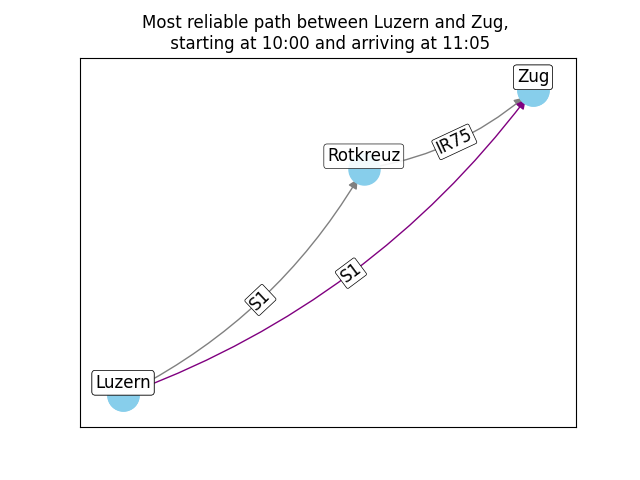
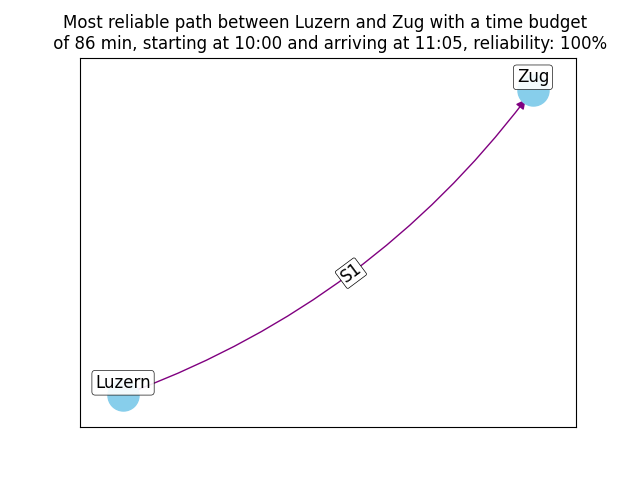
add results

diff --git a/algorithm/old/main_pavlina.py b/algorithm/old/main_pavlina.py
@@ -1,0 +1,109 @@
+# This file contains code to run the simple Dijsktra pathfinder
+import logging
+
+from algorithm.graph import Graph
+from retrieve_data.Network import get_data  # Import function to get data from database
+from retrieve_data.Network import process_route_data  # Import function to generate graph dynamically
+from algorithm.reliability_v2 import compute_reliability
+
+
+
+def print_path(path, start_node, start_time=0):
+    """
+    Print the path in a human-readable way
+    :param path: tuple with the path (departure_time, node, arrival_time, identifier)
+    """
+    # The first edge is the source node
+    if path is None:
+        print("No path found")
+        return
+    print(f"Start at {start_node} at {start_time}")
+    for trip in path:
+        departure_time = trip["planned_departure"]
+        arrival_time = trip["planned_arrival"]
+        node = trip["to"]
+        identifier = trip["trip_id"]
+        print(f"Take {identifier} to {node} at {departure_time} and arrive at {arrival_time}")
+
+
+
+# Data structure (tuples sorted by departure time for faster access)
+# We have a dictionary with the nodes as keys and the values are an array with tuples (departure_time, neighbor, arrival_time, trip identifier)
+# times in minutes
+
+def generate_graph(start_time, end_time, start_stop, data=None):
+    if data is None:
+        data = get_data()  # Fetch data only if not provided
+    return process_route_data(data, start_time, end_time, start_stop)
+
+# this is intermediate data to test the algorithm
+'''
+graph_data = {
+    # departure node with list of trips (departure nodes in the dictionary to be able to access the data easily)
+    # "from" is just additional to be accessible anywhere
+    # actual_times is a list of tuples with the actual departure and arrival times
+    'Liestal': [
+        { "from": 'Liestal', "to": 'Olten', "planned_departure": 487, "planned_arrival": 505, "trip_id": 'IC6', "actual_times": [(487, 505), (490, 508) ] }
+    ],
+    'Olten': [
+        { "from": 'Olten', "to": 'Bern', "planned_departure": 509, "planned_arrival": 536, "trip_id": 'IC6', "actual_times": [(509, 536), (512, 539) ] },
+        { "from": 'Olten', "to": 'Bern', "planned_departure": 451, "planned_arrival": 478, "trip_id": 'IC8', "actual_times": [(451, 478), (454, 481) ] }
+    ],
+    'Bern': [
+        { "from": 'Bern', "to": 'Thun', "planned_departure": 547, "planned_arrival": 565, "trip_id": 'IC6', "actual_times": [(547, 565), (550, 568) ] },
+        { "from": 'Bern', "to": 'Thun', "planned_departure": 487, "planned_arrival": 505, "trip_id": 'IC8', "actual_times": [(487, 505), (490, 508) ] }
+    ],
+    'Thun': [
+        { "from": 'Thun', "to": 'Spiez', "planned_departure": 566, "planned_arrival": 576, "trip_id": 'IC6', "actual_times": [(566, 576), (569, 579) ] },
+        { "from": 'Thun', "to": 'Spiez', "planned_departure": 506, "planned_arrival": 516, "trip_id": 'IC8', "actual_times": [(506, 516), (509, 519) ] }
+    ],
+    'Spiez': [
+        { "from": 'Spiez', "to": 'Visp', "planned_departure": 576, "planned_arrival": 602, "trip_id": 'IC6', "actual_times": [(576, 602), (579, 605) ] },
+        { "from": 'Spiez', "to": 'Visp', "planned_departure": 516, "planned_arrival": 542, "trip_id": 'IC8', "actual_times": [(516, 542), (519, 545) ] }
+    ],
+    'Visp': [
+        { "from": 'Visp', "to": 'Brig', "planned_departure": 603, "planned_arrival": 611, "trip_id": 'IC6', "actual_times": [(603, 611), (606, 614) ] },
+        { "from": 'Visp', "to": 'Brig', "planned_departure": 543, "planned_arrival": 551, "trip_id": 'IC8', "actual_times": [(543, 551), (546, 554) ] }
+    ],
+    'Brig': [],
+    'Aarau': [
+        { "from": 'Aarau', "to": 'Olten', "planned_departure": 438, "planned_arrival": 447, "trip_id": 'IC8', "actual_times": [(438, 447), (441, 450) ] }
+    ],
+    'Zürich HB': [
+        { "from": 'Zürich HB', "to": 'Aarau', "planned_departure": 404, "planned_arrival": 436, "trip_id": 'IC8', "actual_times": [(404, 436), (407, 439) ] }
+    ]
+}
+'''
+
+if __name__ == "__main__":
+    # Code for testing reliability, most reliable path, etc.
+    # initialize graph G (with graph class)
+    # Example: shortest path from Bern to Brig
+    start_time = 540 #9AM, 10 AM, 11 AM
+    end_time= start_time + 180
+    start_stop = 8501003 #Sissach
+    start = 8501003 #Departure Station
+    destination = 8501000 #Arrival Station, Zimeysa
+    graph_data = generate_graph(start_time, end_time, start_stop)
+
+    G = Graph(graph=graph_data)
+
+    if start not in G.graph or destination not in G.graph:
+        print(f"Error: {start} or {destination} not in graph nodes")
+        print("Graph nodes:", list(G.graph.keys()))
+    else:
+        shortest_time, shortest_path = G.dijkstra(start, destination, start_time)
+        print(f"Earliest arrival time from {start} at {start_time} to {destination} is {shortest_time}")
+        print_path(shortest_path, start, start_time)
+        print("Shortest path:", shortest_path)
+        # evaluate reliability of the path
+        time_budget = (shortest_time - start_time) * 1.5
+        shortest_path_reliability = compute_reliability(shortest_path, start_time, int(time_budget), transfer_time=5)
+        #compute the reliability of the path
+        print(f"Reliability of the shortest path: ~{round(shortest_path_reliability * 100)}%")
+
+        # Test finding the most reliable path
+        reliable_arrival_time, reliability, most_reliable_path = G.find_most_reliable_path(start, destination, start_time, int(time_budget))
+        print("We go from", start, "to", destination, "starting at", start_time, "with a time budget of", time_budget, "earliest possible arrival", shortest_time, "latest possible arrival", start_time + time_budget)
+        print("Reliability:", reliability, "arrival time with most reliable path", reliable_arrival_time)
+        print_path(most_reliable_path, start, start_time)

diff --git a/visualization/create_graph_visual_from_results.py b/visualization/create_graph_visual_from_results.py
@@ -50,6 +50,12 @@ if __name__ == "__main__":
     start_time = results_metadata["start_time"].iloc[0]
     earliest_arrival_time = results_metadata["earliest_arrival_time"].iloc[0]
     most_reliable_arrival_time = results_metadata["arrival_time_most_reliable_path"].iloc[0]
+    shortest_path_reliability = results_metadata["shortest_path_reliability"].iloc[0]
+    most_reliable_path_reliability = results_metadata["reliability"].iloc[0]
+    time_budget = results_metadata["time_budget"].iloc[0] if "time_budget" in results_metadata.columns else None
+    if time_budget is None:
+        # did not have the time budget in all result runs, used 1.5 most of the time
+        time_budget = (earliest_arrival_time - start_time) * 1.5
 
     shortest_path_graph, shortest_path_coordinates = get_graph_and_stations_from_path(shortest_path)
     most_reliable_path_graph, most_reliable_path_coordinates = get_graph_and_stations_from_path(most_reliable_path)
@@ -59,5 +65,8 @@ if __name__ == "__main__":
     most_reliable_path_station_map = get_station_map_from_station_coordinates(most_reliable_path_coordinates)
 
     # plot the graphs
-    plot_graph(shortest_path_graph, pos=shortest_path_station_map, title=f"Shortest path between {start} and {destination}, \n starting at {minutes_to_time(start_time)} and arriving at {minutes_to_time(earliest_arrival_time)}", save=True, filename=f"shortest_path_{results_file}.png")
-    plot_graph(most_reliable_path_graph, pos=most_reliable_path_station_map, title=f"Most reliable path between {start} and {destination}, \n starting at {minutes_to_time(start_time)} and arriving at {minutes_to_time(most_reliable_arrival_time)}", save=True, filename=f"most_reliable_path_{results_file}.png", edge_color="purple")
+    plot_graph(shortest_path_graph, pos=shortest_path_station_map, title=f"Shortest path between {start} and {destination}, \n starting at {minutes_to_time(start_time)} and arriving at {minutes_to_time(earliest_arrival_time)}, reliability: {round(shortest_path_reliability*100)}%", save=True, filename=f"shortest_path_{results_file}.png")
+    additional_text_both_paths = f"Shortest path:\narrival: {minutes_to_time(earliest_arrival_time)},\nreliability: {round(shortest_path_reliability*100)}% \n"\
+                                 f"Most reliable path:\narrival: {minutes_to_time(most_reliable_arrival_time)},\nreliability: {round(most_reliable_path_reliability*100)}%,\ntime budget: {round(time_budget)} min"
+    plot_graph(most_reliable_path_graph, pos=most_reliable_path_station_map, title=f"Most reliable and shortest path between {start} and {destination}, \n starting at {minutes_to_time(start_time)}", save=True, filename=f"most_reliable_and_shortest_path_{results_file}.png", edge_color="purple", reset=False, additional_text=additional_text_both_paths)
+    plot_graph(most_reliable_path_graph, pos=most_reliable_path_station_map, title=f"Most reliable path between {start} and {destination} with a time budget \n of {round(time_budget)} min, starting at {minutes_to_time(start_time)} and arriving at {minutes_to_time(most_reliable_arrival_time)}, reliability: {round(most_reliable_path_reliability*100)}%", save=True, filename=f"most_reliable_path_{results_file}.png", edge_color="purple", reset=True)

diff --git a/visualization/plot_graph.py b/visualization/plot_graph.py
@@ -16,11 +16,14 @@ stops = [{'stop_name': 'Zürich HB', 'stop_lat': 47.378177, 'stop_lon': 8.540212
 # map stops for graph visualization: {"stop_name": [stop_lat, stop_lon]}
 stops_map = {stop['stop_name']: [stop['stop_lon'], stop['stop_lat']] for stop in stops}
 
-def plot_graph(graph, pos=stops_map, title=None, save=False, save_path=None, filename=None, edge_color=None):
+def plot_graph(graph, pos=stops_map, title=None, save=False, save_path=None, filename=None, edge_color=None, reset=True, additional_text=None):
     """
     Plot the graph using networkx and matplotlib
     Based on: https://networkx.org/documentation/stable/auto_examples/drawing/plot_multigraphs.html
     """
+    # reset plot
+    if reset:
+        plt.clf()
 
     def _draw_labeled_multigraph(G, attr_name, pos, ax=None, edge_color=None):
         """
@@ -119,6 +122,10 @@ def plot_graph(graph, pos=stops_map, title=None, save=False, save_path=None, fil
     # Set title if title is not None
     if title is not None:
         plt.title(title)
+
+    # add additional text in the top left corner within the graph, smaller font
+    if additional_text:
+        plt.text(0.135, 0.7, additional_text, fontsize=8, transform=plt.gcf().transFigure)
 
     # save the plot if save is True
     if save:

diff --git a/prototype/prototype.py b/prototype/prototype.py
@@ -8,9 +8,7 @@ from constants import LOG_LEVEL
 
 logging.basicConfig(level=LOG_LEVEL)
 
-import duckdb
-
-from algorithm.evaluate_shortest_paths import get_graph_data
+from algorithm.old.evaluate_shortest_paths import get_graph_data
 from algorithm.graph import Graph
 from algorithm.helper import print_path, get_specific_station_identifier_from_name, get_specific_station_name_from_identifier
 from algorithm.reliability_v2 import compute_reliability
